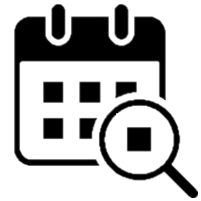
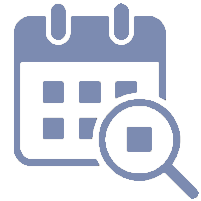
gombapp admin auth updated + color edits

diff --git a/GombApp/scripts/adminscripts.js b/GombApp/scripts/adminscripts.js
@@ -3,6 +3,8 @@ import { initializeApp } from "https://www.gstatic.com/firebasejs/10.12.1/fireba
 import { getAnalytics } from "https://www.gstatic.com/firebasejs/10.12.1/firebase-analytics.js";
 import { getAuth, onAuthStateChanged} from "https://www.gstatic.com/firebasejs/10.12.1/firebase-auth.js";
 import { getDatabase, ref, get, child } from "https://www.gstatic.com/firebasejs/10.12.1/firebase-database.js";
+import { getFirestore, doc, getDoc }  from "https://www.gstatic.com/firebasejs/10.12.1/firebase-firestore.js";
+
 
 // Your web app's Firebase configuration
 // For Firebase JS SDK v7.20.0 and later, measurementId is optional
@@ -23,6 +25,7 @@ const app = initializeApp(firebaseConfig);
 const analytics = getAnalytics(app);
 const auth = getAuth(app);
 const database = getDatabase(app);
+const firestoreDB = getFirestore(app);
 
 const backButton = document.getElementById('back-button');
 const backButton2 = document.getElementById('back-button2');
@@ -49,19 +52,32 @@ backButton2.addEventListener('click', function() {
     summarystats.style.display = 'none';
 });
 
-onAuthStateChanged(auth, (user) => {
-    const allowedUids = ['9HBKQhxPThQXX51YLwHKGaLiz0D3', 'JlsebVypa1cYKXiLjIns7MktYmy2'];
-    if (allowedUids.includes(user.uid)) {
-      // Admin is signed in
-        header.style.display = 'block';
-        menu.style.display = 'grid';
-        fetchAndDisplayStatistics();
-    } 
-    else {
-      // No admin is signed in
-      alert('Nincs jogosultságod az admin oldal megtekintéséhez!');
+onAuthStateChanged(auth, async (user) => {
+  if (user) {
+    const adminDocRef = doc(firestoreDB, 'admins', 'admin');
+    try {
+      const docSnap = await getDoc(adminDocRef);
+      if (docSnap.exists()) {
+        const adminData = docSnap.data();
+        if (adminData[user.uid] === true) { // Check if the user's UID exists and is true
+          header.style.display = 'block';
+          menu.style.display = 'grid';
+          fetchAndDisplayStatistics();
+        } else {
+          // User is not an admin
+          alert('Nincs jogosultságod az admin oldal megtekintéséhez!');
+        }
+      } else {
+        console.log("No such document!");
+      }
+    } catch (error) {
+      console.error("Error getting document:", error);
     }
-  });
+  } else {
+    // No user is signed in
+    alert('Nincs jogosultságod az admin oldal megtekintéséhez!');
+  }
+});
 
   bartenderButton.addEventListener('click', function() {
     bartenderstats.style.display = 'block';

diff --git a/GombApp/sass/style.css b/GombApp/sass/style.css
@@ -7,10 +7,10 @@
 html, body {
   font-size: 20px;
   font-family: "Alumni Sans", sans-serif;
-  color: #7c8bb1;
+  color: #102135;
   width: 100%;
   min-height: 100%;
-  background-color: #102135;
+  background-color: #7c8bb1;
   padding: 20px;
   display: flex;
   justify-content: center;
@@ -30,7 +30,7 @@ header {
   justify-content: space-between;
   align-items: center;
   padding: 10px 20px;
-  background-color: #102135;
+  background-color: #7c8bb1;
   position: absolute;
   top: 0;
   left: 0;
@@ -43,7 +43,7 @@ header {
   height: 40px;
   border-radius: 50%;
   display: inline-block;
-  border-top: 4px solid #7c8bb1;
+  border-top: 4px solid #102135;
   border-right: 4px solid transparent;
   box-sizing: border-box;
   animation: rotation 1s linear infinite;
@@ -67,15 +67,15 @@ header {
 
 .app-title {
   font-size: 1.5em;
-  color: #7c8bb1;
+  color: #102135;
   text-align: center;
   flex: 1;
   font-family: "Alumni Sans", sans-serif;
 }
 
 .login-button {
-  background-color: #7c8bb1;
-  color: black;
+  background-color: #102135;
+  color: #7c8bb1;
   border: none;
   padding: 10px 20px;
   cursor: pointer;
@@ -86,12 +86,12 @@ header {
 
 body {
   padding: 20px;
-  background-color: #102135;
+  background-color: #7c8bb1;
 }
 
 button {
-  background-color: #7c8bb1;
-  color: black;
+  background-color: #102135;
+  color: #7c8bb1;
   border: none;
   padding: 10px 20px;
   cursor: pointer;
@@ -122,7 +122,7 @@ button {
   gap: 15px;
   width: 100%;
   max-width: 400px;
-  background-color: #102135;
+  background-color: #7c8bb1;
   padding: 20px;
   border-radius: 10px;
   margin-top: 100px;
@@ -190,7 +190,7 @@ button {
 }
 
 .order-list-box {
-  border: 1px solid #7c8bb1;
+  border: 1px solid #102135;
   border-radius: 5px;
   width: 300px;
   max-height: 65vh;
@@ -217,7 +217,7 @@ button {
   left: 0;
   width: 100%;
   height: 80px;
-  background-color: #102135;
+  background-color: #7c8bb1;
   padding: 10px;
   z-index: 1000;
 }
@@ -248,7 +248,7 @@ button {
   align-items: center;
   width: 100%;
   padding: 10px;
-  border-bottom: 1px solid #7c8bb1;
+  border-bottom: 1px solid #102135;
 }
 
 .footer-text {
